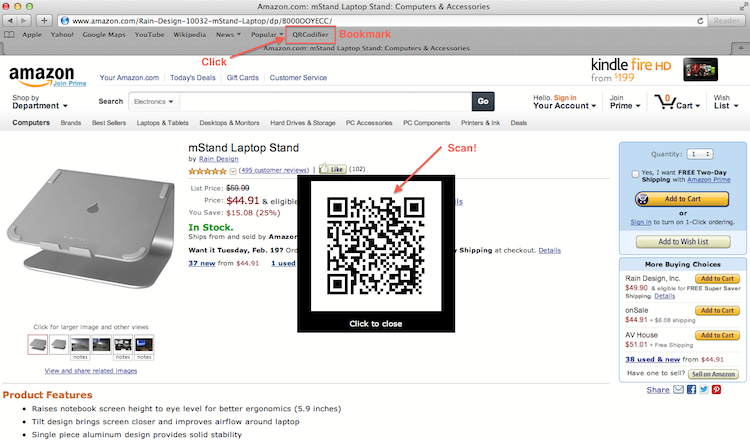
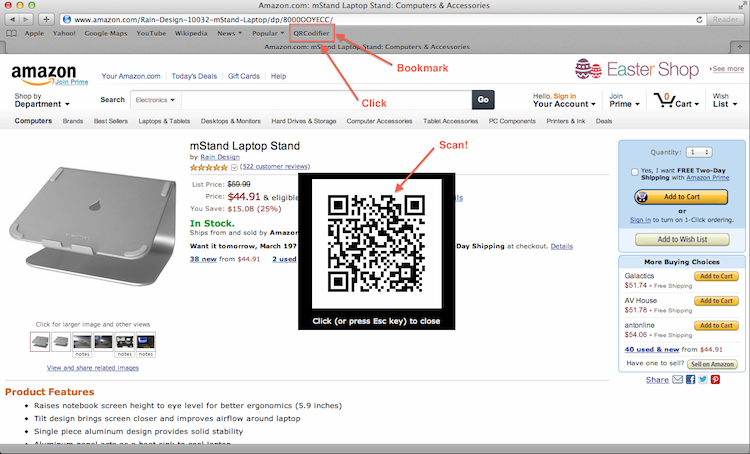
Updated screenshot that shows Esc key to close.

diff --git a/index.html b/index.html
@@ -64,7 +64,7 @@
 </ol>
 <p class="screenshot">Here's a screenshot of <em>QRCodifier</em>.</p>
 <div class="screenshot">
-	<img alt="Screenshot: QRCodifier" src="QRCodifier.png" width="750" height="442"/>
+	<img alt="Screenshot: QRCodifier" src="QRCodifier.png" width="750" height="454"/>
 </div>
 <div class="footer">
 2013-02-16 | <em>QRCodifier</em> has been developed by <a href="http://sumeet.info/">Sumeet Mulani</a> and uses <a href="https://google-developers.appspot.com/chart/infographics/docs/overview">Google's Infographics API</a>. 
